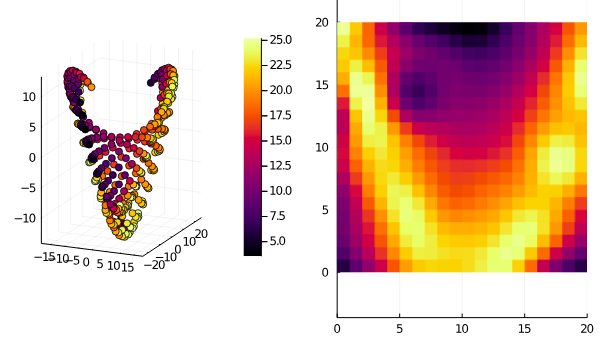
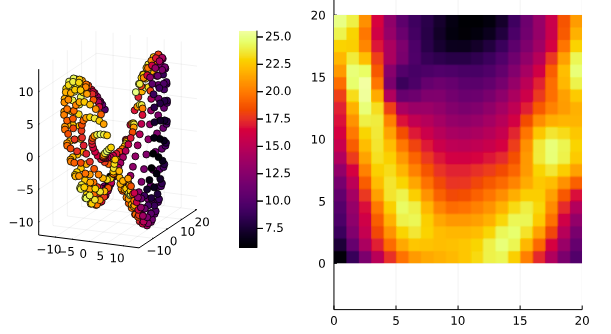
Consolidate changes for a new version

Changed region(s): [[0.3732, 0.0, 0.964, 0.988], [0.0311, 0.1497, 0.3421, 0.8084], [0.8707, 0.7485, 0.964, 0.8084]]

diff --git a/README.md b/README.md
@@ -17,6 +17,10 @@ This package deals with local anisotropies in geostatistics. It offers some solu
 - <u>Local anisotropies extraction methods</u>:
   - Gradients
   - SVD / PCA <p>
+- <u>Local anisotropies operations</u>:
+  - Interpolation of directional data (via quaternions)
+  - Import/export/convert to different conventions
+  - Unconventional local variography using local anisotropies <p>
 - <u>Nonstationary spatial methods</u>:
   - Moving windows
   - Kernel convolution
@@ -76,9 +80,8 @@ D = georef((P=[25-abs(0.2*i^2-j) for i in -10:9, j in 1:20],))
 S = sample(D, 80, replace=false)
 G = CartesianGrid(20,20)
 
-# create an estimation problem and a variogram model
+# create an estimation problem
 P = EstimationProblem(S, G, :P)
-γ = GaussianVariogram(sill=35., range=11.)
 
 # plot reference scenario and samples extracted for further estimations
 splot = plot(G)
@@ -102,10 +105,16 @@ plot!(rawlpars,D)
 </p>
 
 ```julia
-# rescale magnitude and average 10 nearest local anisotropies
-lpars = rescale_magnitude(rawlpars, (0.5,1.0))
+# average 10 nearest local anisotropies
 searcher = KNearestSearch(G, 10)
-lpars = smooth(lpars, searcher)
+lpars = smooth(rawlpars, searcher)
+
+# rescale magnitude of range2 to between 0.25 and 1.0
+rescale_magnitude!(lpars, r2=(0.25,1.0))
+
+# set reference axis to Y; range will be fixed in that direction
+reference_magnitude!(lpars, :Y)
+
 plot(D, alpha=0.6, colorbar=false)
 plot!(lpars,D)
 ```
@@ -117,8 +126,8 @@ plot!(lpars,D)
 ```julia
 # plot(lpars, data) will only work for 2D spatial data
 # for 3D or custom visualizations, it's possible to export it to VTK
-localaniso2vtk("ellipses", D, lpars)
-# below the file "ellipses.vtu" loaded in Paraview using TensorGlyph
+to_vtk("ellipses", D, lpars)
+# below the file "ellipses.vtu" loaded in Paraview using TensorGlyph (disable extract eigenvalues)
 ```
 
 <p align="center">
@@ -126,8 +135,23 @@ localaniso2vtk("ellipses", D, lpars)
 </p>
 
 ```julia
+# pass local anisotropies to samples
+spars = nnpars(lpars, D, S)
+
+# do an unconventional variography along local Y axis
+expvario = localvariography(S, lpars, :P, tol=2, maxlag=20, nlags=20, axis=:Y)
+plot(expvario)
+γ = GaussianVariogram(sill=31., range=8.)
+plot!(γ)
+```
+
+<p align="center">
+  <img src="imgs/03.3_localaniso_vario.png">
+</p>
+
+```julia
 # kriging using moving windows method
-MW = LocalKriging(:P => (variogram=(:X=>γ), localaniso=lpars, method=:MovingWindows))
+MW = LocalKriging(:P => (variogram=γ, localaniso=lpars, method=:MovingWindows))
 s1 = solve(P, MW)
 plot(s1,[:P])
 ```
@@ -138,7 +162,7 @@ plot(s1,[:P])
 
 ```julia
 # kriging using kernel convolution method
-KC = LocalKriging(:P => (variogram=(:X=>γ), localaniso=lpars, method=:KernelConvolution))
+KC = LocalKriging(:P => (variogram=γ, localaniso=lpars, method=:KernelConvolution))
 s2 = solve(P, KC)
 plot(s2,[:P])
 ```
@@ -151,9 +175,9 @@ plot(s2,[:P])
 # deform space using kernel variogram as dissimilarity input
 Sd1, Dd1 = deformspace(S, G, lpars, KernelVariogram, γ, anchors=1500)
 Pd1 = EstimationProblem(Sd1, Dd1, :P)
-γ1 = GaussianVariogram(sill=35., range=40.)
+γ1 = GaussianVariogram(sill=25., range=25.)
 s3 = solve(Pd1, Kriging(:P => (variogram=γ1,)))
-plot(plot(to3d(s3),[:P]), plot(georef(values(s3),G),[:P],colorbar=false))
+plot(plot(to_3d(s3),[:P]), plot(georef(values(s3),G),[:P],colorbar=false))
 ```
 
 <p align="center">
@@ -161,15 +185,16 @@ plot(plot(to3d(s3),[:P]), plot(georef(values(s3),G),[:P],colorbar=false))
 </p>
 
 ```julia
-# deform space based on a graph built with average anisotropic distances of the
-# 10 nearest data
+# deform space based on a graph built with average anisotropic distances
+# of the ten nearest data; do variography in multidimensional space
 LDa = graph(S, G, lpars, AnisoDistance, searcher)
 Sd2, Dd2 = deformspace(LDa, GraphDistance, anchors=1500)
+γ2 = GaussianVariogram(sill=35., range=18.)
+
 # traditional kriging in the new multidimensional space
 Pd2 = EstimationProblem(Sd2, Dd2, :P)
-γ2 = GaussianVariogram(sill=35., range=40.)
 s4 = solve(Pd2, Kriging(:P => (variogram=γ2,)))
-plot(plot(to3d(s4),[:P]), plot(georef(values(s4),G),[:P],colorbar=false))
+plot(plot(to_3d(s4),[:P]), plot(georef(values(s4),G),[:P],colorbar=false))
 ```
 
 <p align="center">
@@ -177,14 +202,16 @@ plot(plot(to3d(s4),[:P]), plot(georef(values(s4),G),[:P],colorbar=false))
 </p>
 
 ```julia
-# deform space based on a graph built with kernel variogram of the 10 nearest data
+# deform space based on a graph built with kernel variogram of the ten
+# nearest data; do variography in multidimensional space
 LDv = graph(S, G, lpars, KernelVariogram, γ, searcher)
 Sd3, Dd3 = deformspace(LDv, GraphDistance, anchors=1500)
+γ3 = GaussianVariogram(sill=9., range=30.)
+
 # traditional kriging in the new multidimensional space
 Pd3 = EstimationProblem(Sd3, Dd3, :P)
-γ3 = GaussianVariogram(sill=45., range=40.)
 s5 = solve(Pd3, Kriging(:P => (variogram=γ3,)))
-plot(plot(to3d(s5),[:P]), plot(georef(values(s5),G),[:P],colorbar=false))
+plot(plot(to_3d(s5),[:P]), plot(georef(values(s5),G),[:P],colorbar=false))
 ```
 
 <p align="center">
@@ -192,8 +219,8 @@ plot(plot(to3d(s5),[:P]), plot(georef(values(s5),G),[:P],colorbar=false))
 </p>
 
 ```julia
-# ordinary kriging for comparison
-OK = Kriging(:P => (variogram=γ, maxneighbors=20))
+γomni = GaussianVariogram(sill=35., range=11.)
+OK = Kriging(:P => (variogram=γomni, maxneighbors=20))
 s0 = solve(P, OK)
 plot(s0,[:P])
 ```
